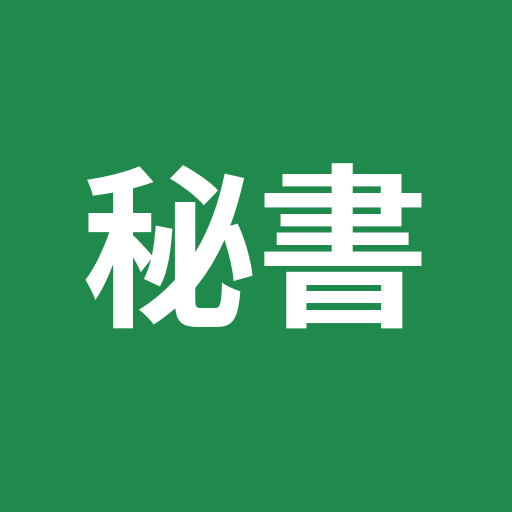
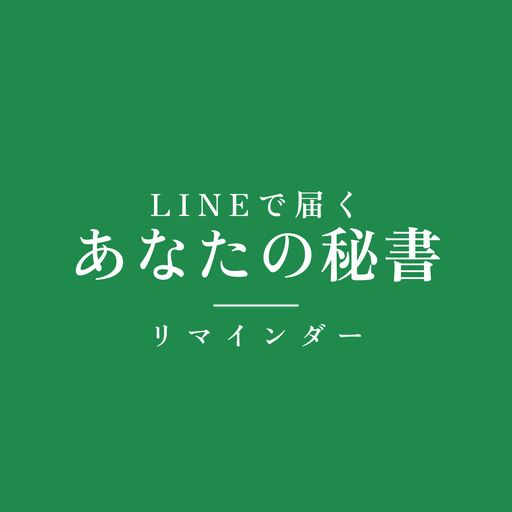
設定サイト 1.1.013：ロゴを正方形にし、文字の組み方を整える（LINEで届く／あなたの秘書／リマインダー）。雨だれが落ちて、のびて、着地でつぶれて広がる動き。アイコンも同じロゴに
Claude-Session: https://claude.ai/code/session_01RZjymFdeAamh66Vda2J6KR

Changed region(s): [[0.125, 0.3125, 0.875, 0.6875]]

diff --git a/index.html b/index.html
@@ -113,23 +113,24 @@
   .btn:active, nav.tabs button:active, .item:active, .filter button:active, .sub button:active, .hbtn:active, header .gear:active, header .st:active, .add:active {
     transform: scale(.94); transition-duration: .08s; }
   header h1 { cursor: pointer; }
-  /* ── 開いたときの画面：帯 → 細い線 → ひとしずく → ロゴ → 文字が打たれる ── */
+  /* ── 開いたときの画面：帯 → 細い線 → 雨だれ → 着地してつぶれる → 正方形のロゴに広がる → 白い文字 ── */
   @font-face { font-family: 'SplashFont'; src: url('icons/splash.woff2') format('woff2'); font-weight: 700; font-display: block; }
-  #splash { position: fixed; inset: 0; z-index: 50; background: #fff; overflow: hidden; transition: opacity .45s ease; }
-  #splash .band { position: absolute; left: 0; right: 0; top: 0; height: calc(56px + env(safe-area-inset-top)); background: var(--main);
-    transform: scaleX(0); transform-origin: left; transition: transform .6s cubic-bezier(.65, 0, .35, 1); }
-  #splash .line { position: absolute; left: 50%; width: 2px; margin-left: -1px; background: var(--main); border-radius: 1px;
-    transform: scaleY(0); transform-origin: top; }
-  #splash .blob { position: absolute; left: 50%; width: 12px; height: 12px; border-radius: 50%; background: var(--main);
-    transform: translate(-50%, -50%) scale(0); display: flex; flex-direction: column; align-items: center; justify-content: center;
-    color: #fff; font-family: 'SplashFont', 'Zen Old Mincho', 'Hiragino Mincho ProN', 'Yu Mincho', serif; font-weight: 700; overflow: hidden; }
-  #splash .blob .s1 { opacity: .85; letter-spacing: .14em; white-space: nowrap; min-height: 1.3em; }
-  #splash .blob .s2 { letter-spacing: .06em; white-space: nowrap; min-height: 1.3em; line-height: 1.3; }
-  #splash .cur { display: inline-block; width: 1.5px; height: .95em; background: rgba(255,255,255,.9); vertical-align: -.1em; margin-left: 3px; animation: blink .9s step-end infinite; }
+  #splash { position: fixed; inset: 0; z-index: 50; background: #fff; overflow: hidden; transition: opacity .5s ease; }
+  #splash .band { position: absolute; left: 0; right: 0; top: 0; height: calc(56px + env(safe-area-inset-top)); background: var(--main); transform: scaleX(0); transform-origin: left; }
+  #splash .line { position: absolute; left: 50%; width: 2px; margin-left: -1px; background: var(--main); border-radius: 1px; transform: scaleY(0); transform-origin: top; }
+  #splash .drop { position: absolute; left: 50%; width: 14px; height: 20px; margin-left: -7px; fill: var(--main); opacity: 0; transform-origin: 50% 100%; overflow: visible; }
+  #splash .logo { position: absolute; left: 50%; background: var(--main); border-radius: 23%; transform: scale(0); display: flex; align-items: center; justify-content: center;
+    color: #fff; font-family: 'SplashFont', 'Zen Old Mincho', 'Hiragino Mincho ProN', 'Yu Mincho', serif; font-weight: 700; box-shadow: 0 18px 40px rgba(31,138,76,0); }
+  #splash .logo .in { display: flex; flex-direction: column; align-items: center; }
+  #splash .logo .s1 { letter-spacing: .24em; padding-left: .24em; opacity: .82; white-space: nowrap; min-height: 1.4em; line-height: 1.4; }
+  #splash .logo .s2 { letter-spacing: .04em; white-space: nowrap; min-height: 1.35em; line-height: 1.35; }
+  #splash .logo .rule { width: 18%; height: 1px; background: rgba(255,255,255,.5); transform: scaleX(0); }
+  #splash .logo .s3 { letter-spacing: .42em; padding-left: .42em; opacity: .82; white-space: nowrap; min-height: 1.4em; line-height: 1.4; }
+  #splash .cur { display: inline-block; width: 1px; height: .9em; background: rgba(255,255,255,.85); vertical-align: -.08em; margin-left: 2px; animation: blink .9s step-end infinite; }
   #splash .tap { position: absolute; left: 0; right: 0; text-align: center; font-family: 'SplashFont', 'Zen Old Mincho', 'Hiragino Mincho ProN', 'Yu Mincho', serif;
-    font-weight: 700; font-size: 13px; letter-spacing: .3em; color: var(--sub); opacity: 0; transform: translateY(6px); transition: opacity .8s ease, transform .8s ease; }
+    font-weight: 700; font-size: 12px; letter-spacing: .36em; padding-left: .36em; color: var(--sub); opacity: 0; transform: translateY(6px); transition: opacity .9s ease, transform .9s ease; }
   #splash .tap.on { opacity: 1; transform: none; }
-  #splash .tap.on span { animation: breathe 2.4s ease-in-out infinite; }
+  #splash .tap.on span { animation: breathe 2.6s ease-in-out infinite; }
   #splash.out { opacity: 0; pointer-events: none; }
   @keyframes blink { 50% { opacity: 0; } }
   @keyframes breathe { 50% { opacity: .35; } }
@@ -156,7 +157,7 @@
 </style>
 </head>
 <body>
-<div id="splash" aria-label="LINEで届く あなたの秘書"><div class="band"></div><div class="line"></div><div class="blob"><div class="s1"></div><div class="s2"></div></div><div class="tap"><span>タップしてください</span></div></div>
+<div id="splash" aria-label="LINEで届く あなたの秘書 リマインダー"><div class="band"></div><div class="line"></div><svg class="drop" viewBox="0 0 20 28" aria-hidden="true"><path d="M10 0C10 0 2.2 10.4 2.2 17.8a7.8 7.8 0 0 0 15.6 0C17.8 10.4 10 0 10 0z"/></svg><div class="logo"><div class="in"><div class="s1"></div><div class="s2"></div><div class="rule"></div><div class="s3"></div></div></div><div class="tap"><span>タップしてください</span></div></div>
 <div id="busy"><div class="bx"><div class="sp"></div>読み込み中です</div></div>
 <div class="topbar">
 <header>
@@ -179,7 +180,7 @@
 (function () {
   'use strict';
   var STORE = 'yourSecretaryLogin';
-  var SITE_VERSION = '1.1.012';
+  var SITE_VERSION = '1.1.013';
   var TEST_STOP = 169; // テスト送信を止める数（月31日分の毎日のリマインドを残すため 200−31）
   var ADMIN_URL = 'https://script.google.com/macros/s/AKfycbw22sAd3JbIVTmkkY_Jy7cszqnWCHQ6_bYleeF1wt2PXHuvWWZ_zzqPkDXUplcw65k/exec'; // 顧客管理のURL
   var S = { conn: null, schema: null, data: null, settings: null, line: null, tab: 'today', taskFilter: '未完了', quota: null };
@@ -1107,70 +1108,80 @@
   }
 
   // ---------- 起動 ----------
-  // 開いたときの画面：緑の帯 → 帯のまん中から細い線が下へ → ひとしずく落ちる → 広がってロゴ → 白い文字が1字ずつ打たれる → タップで中へ
+  // 開いたときの画面：緑の帯 → 帯のまん中から細い線が下へ → 線の先に雨だれがふくらんで離れる → 落ちながら縦にのびる
+  //   → 着地してつぶれる → パッと正方形のロゴに広がる → 白い文字が1字ずつ打たれる → タップで中へ
   (function splash() {
-    var sp = document.getElementById('splash'), band = sp.querySelector('.band'), line = sp.querySelector('.line'),
-        blob = sp.querySelector('.blob'), s1 = blob.querySelector('.s1'), s2 = blob.querySelector('.s2'), tap = sp.querySelector('.tap');
-    var A = 'LINEで届く', B = 'あなたの秘書', cur = '<span class="cur"></span>';
-    var vw = window.innerWidth, vh = window.innerHeight;
-    var bandB = band.getBoundingClientRect().height;
-    var W = Math.round(Math.min(vw * 0.78, 300)), H = Math.round(W * 0.56);
-    var Y = Math.round(bandB + (vh - bandB) * 0.44);          // ロゴのまん中の高さ
-    var dropY = Math.round(Y - H * 0.5 - 18);                // 線が止まって、しずくになるところ
-    s1.style.fontSize = Math.round(W * 0.058) + 'px'; s2.style.fontSize = Math.round(W * 0.105) + 'px';
-    line.style.top = bandB + 'px'; line.style.height = (dropY - bandB) + 'px';
-    blob.style.top = dropY + 'px';
-    tap.style.top = (Y + H / 2 + 30) + 'px';
-    var timers = [], ready = false, typed = false;
+    var sp = document.getElementById('splash'), band = sp.querySelector('.band'), line = sp.querySelector('.line'), drop = sp.querySelector('.drop'),
+        logo = sp.querySelector('.logo'), s1 = logo.querySelector('.s1'), s2 = logo.querySelector('.s2'), rule = logo.querySelector('.rule'), s3 = logo.querySelector('.s3'),
+        tap = sp.querySelector('.tap');
+    var A = 'LINEで届く', B = 'あなたの秘書', C = 'リマインダー', cur = '<span class="cur"></span>';
+    var vw = window.innerWidth, vh = window.innerHeight, bandB = band.getBoundingClientRect().height;
+    var W = Math.round(Math.min(vw * 0.56, 232, (vh - bandB) * 0.5));          // 正方形のロゴの一辺
+    var Y = Math.round(bandB + (vh - bandB) * 0.45);                         // ロゴのまん中（＝しずくの着地点）
+    var lineEnd = Math.round(bandB + (Y - bandB) * 0.42);                    // 線が止まって、しずくがふくらむところ
+    var DH = 20;                                                             // しずくの高さ
+    logo.style.width = logo.style.height = W + 'px'; logo.style.marginLeft = -W / 2 + 'px'; logo.style.top = (Y - W / 2) + 'px';
+    s1.style.fontSize = Math.round(W * 0.064) + 'px'; s2.style.fontSize = Math.round(W * 0.128) + 'px'; s3.style.fontSize = Math.round(W * 0.056) + 'px';
+    rule.style.margin = Math.round(W * 0.05) + 'px 0 ' + Math.round(W * 0.045) + 'px';
+    line.style.top = bandB + 'px'; line.style.height = (lineEnd - bandB) + 'px';
+    drop.style.top = (lineEnd - 3) + 'px';
+    tap.style.top = (Y + W / 2 + 34) + 'px';
+    var anims = [], timers = [], ready = false, done = false;
     var at = function (ms, fn) { timers.push(setTimeout(fn, ms)); };
+    var go = function (el, frames, opt) { var a = el.animate(frames, Object.assign({ fill: 'forwards' }, opt)); anims.push(a); return a; };
     var fontReady = (document.fonts && document.fonts.load) ? Promise.race([document.fonts.load("700 20px 'SplashFont'"), new Promise(function (r) { setTimeout(r, 1500); })]) : Promise.resolve();
-    function type() {
-      if (typed) return; typed = true;
+    function typeOut(el, text, ms, then) {
       var i = 0;
-      var next = function () {
-        i++;
-        if (i <= A.length) { s1.innerHTML = esc(A.slice(0, i)) + cur; at(70, next); }
-        else if (i <= A.length + B.length) { s1.textContent = A; s2.innerHTML = esc(B.slice(0, i - A.length)) + cur; at(95, next); }
-        else { s2.innerHTML = esc(B) + cur; at(350, function () { tap.classList.add('on'); ready = true; }); }
-      };
-      fontReady.then(next);
+      (function next() { i++; el.innerHTML = esc(text.slice(0, i)) + cur; if (i < text.length) at(ms, next); else at(ms, function () { el.textContent = text; then && then(); }); })();
+    }
+    function type() {
+      fontReady.then(function () {
+        typeOut(s1, A, 65, function () {
+          typeOut(s2, B, 90, function () {
+            go(rule, [{ transform: 'scaleX(0)' }, { transform: 'scaleX(1)' }], { duration: 420, easing: 'cubic-bezier(.65,0,.35,1)' });
+            at(260, function () { typeOut(s3, C, 70, function () { at(250, function () { tap.classList.add('on'); ready = true; }); }); });
+          });
+        });
+      });
     }
     function finalState() {
-      timers.forEach(clearTimeout); timers = [];
-      band.style.transition = line.style.transition = blob.style.transition = 'none';
-      band.style.transform = 'scaleX(1)'; line.style.transform = 'scaleY(0)';
-      blob.style.top = Y + 'px'; blob.style.width = W + 'px'; blob.style.height = H + 'px'; blob.style.borderRadius = '28px';
-      blob.style.transform = 'translate(-50%, -50%) scale(1)'; blob.style.boxShadow = '0 14px 34px rgba(31,138,76,.22)';
-      s1.textContent = A; s2.innerHTML = esc(B) + cur; typed = true; tap.classList.add('on'); ready = true;
+      timers.forEach(clearTimeout); timers = []; anims.forEach(function (a) { try { a.cancel(); } catch (e) {} }); anims = [];
+      band.style.transform = 'scaleX(1)'; line.style.transform = 'scaleY(0)'; drop.style.opacity = '0';
+      logo.style.transform = 'scale(1)'; logo.style.boxShadow = '0 18px 40px rgba(31,138,76,.22)'; rule.style.transform = 'scaleX(1)';
+      s1.textContent = A; s2.textContent = B; s3.textContent = C; tap.classList.add('on'); ready = true;
     }
-    var reduce = window.matchMedia && window.matchMedia('(prefers-reduced-motion: reduce)').matches;
+    var reduce = (window.matchMedia && window.matchMedia('(prefers-reduced-motion: reduce)').matches) || !Element.prototype.animate;
     requestAnimationFrame(function () {
       if (reduce) { finalState(); return; }
-      band.style.transform = 'scaleX(1)';                                         // 1. 帯が引かれる
-      at(520, function () {                                                       // 2. 帯のまん中から、細い線が下へ伸びる
-        line.style.transition = 'transform .5s cubic-bezier(.55, 0, .9, .45)'; line.style.transform = 'scaleY(1)';
-      });
-      at(1000, function () {                                                      // 3. 線の先が、ひとしずくになる
-        blob.style.transition = 'transform .18s cubic-bezier(.34, 1.56, .64, 1)'; blob.style.transform = 'translate(-50%, -50%) scale(1)';
-        line.style.transformOrigin = 'bottom'; line.style.transition = 'transform .28s cubic-bezier(.4, 0, .2, 1)'; line.style.transform = 'scaleY(0)';
-      });
-      at(1200, function () {                                                      // 4. しずくが落ちる
-        blob.style.transition = 'top .3s cubic-bezier(.55, 0, .9, .45)'; blob.style.top = Y + 'px';
-      });
-      at(1500, function () {                                                      // 5. 広がって、ロゴの形になる
-        blob.style.transition = 'width .7s cubic-bezier(.34, 1.36, .64, 1), height .7s cubic-bezier(.34, 1.36, .64, 1), border-radius .7s ease, box-shadow .9s ease';
-        blob.style.width = W + 'px'; blob.style.height = H + 'px'; blob.style.borderRadius = '28px'; blob.style.boxShadow = '0 14px 34px rgba(31,138,76,.22)';
-      });
-      at(2150, type);                                                             // 6. 白い文字が1字ずつ打たれる
+      var EIN = 'cubic-bezier(.55,0,.9,.45)', EOUT = 'cubic-bezier(.22,1,.36,1)';
+      go(band, [{ transform: 'scaleX(0)' }, { transform: 'scaleX(1)' }], { duration: 620, easing: 'cubic-bezier(.65,0,.35,1)' });
+      // 線：帯のまん中から下へ
+      go(line, [{ transform: 'scaleY(0)' }, { transform: 'scaleY(1)' }], { delay: 520, duration: 460, easing: EIN });
+      // 雨だれ：線の先でふくらむ（少し縦にのびて、ぶら下がる）
+      go(drop, [{ opacity: 0, transform: 'scale(.15, .2)' }, { opacity: 1, transform: 'scale(.9, 1)', offset: .6 }, { opacity: 1, transform: 'scale(1, 1.12)' }],
+        { delay: 940, duration: 360, easing: EOUT });
+      // 線は、しずくの方へ吸い込まれて消える
+      at(1060, function () { line.style.transformOrigin = 'bottom'; go(line, [{ transform: 'scaleY(1)' }, { transform: 'scaleY(0)' }], { duration: 320, easing: 'cubic-bezier(.4,0,.2,1)' }); });
+      // 落ちる：下に行くほど縦長に
+      var fall = Y - (lineEnd - 3) - DH;
+      go(drop, [{ transform: 'translateY(0) scale(1, 1.12)' }, { transform: 'translateY(' + fall + 'px) scale(.8, 1.5)' }], { delay: 1300, duration: 380, easing: EIN });
+      // 着地：つぶれて、消える
+      go(drop, [{ transform: 'translateY(' + fall + 'px) scale(.8, 1.5)', opacity: 1 }, { transform: 'translateY(' + fall + 'px) scale(1.7, .38)', opacity: 1, offset: .55 },
+                { transform: 'translateY(' + fall + 'px) scale(2.2, .2)', opacity: 0 }], { delay: 1680, duration: 170, easing: 'ease-out' });
+      // パッと広がって、正方形のロゴに（いったん少し行き過ぎて、戻る）
+      go(logo, [{ transform: 'scale(.06, .02)', borderRadius: '50%' }, { transform: 'scale(1.07, .9)', borderRadius: '26%', offset: .42 },
+                { transform: 'scale(.97, 1.04)', borderRadius: '23%', offset: .7 }, { transform: 'scale(1, 1)', borderRadius: '23%' }],
+        { delay: 1745, duration: 820, easing: 'cubic-bezier(.2,.9,.3,1)' });
+      go(logo, [{ boxShadow: '0 18px 40px rgba(31,138,76,0)' }, { boxShadow: '0 18px 40px rgba(31,138,76,.22)' }], { delay: 2100, duration: 900, easing: 'ease' });
+      at(2450, type);
     });
     sp.onclick = function () {
       if (!ready) { finalState(); return; }                                       // 途中で押したら、最後の形まで進める
-      if (sp.dataset.done) return; sp.dataset.done = '1';
-      blob.style.transition = 'transform .45s cubic-bezier(.34, 1.56, .64, 1)';
-      blob.style.transform = 'translate(-50%, -50%) scale(.93)';
-      setTimeout(function () { blob.style.transform = 'translate(-50%, -50%) scale(1.03)'; }, 120);
-      setTimeout(function () { sp.classList.add('out'); }, 380);
-      setTimeout(function () { sp.style.display = 'none'; }, 850);
+      if (done) return; done = true;
+      logo.animate([{ transform: 'scale(1)' }, { transform: 'scale(.93)', offset: .3 }, { transform: 'scale(1.03)', offset: .65 }, { transform: 'scale(1)' }],
+        { duration: 460, easing: 'ease-out', fill: 'forwards' });
+      setTimeout(function () { sp.classList.add('out'); }, 400);
+      setTimeout(function () { sp.style.display = 'none'; }, 900);
     };
   })();
 
